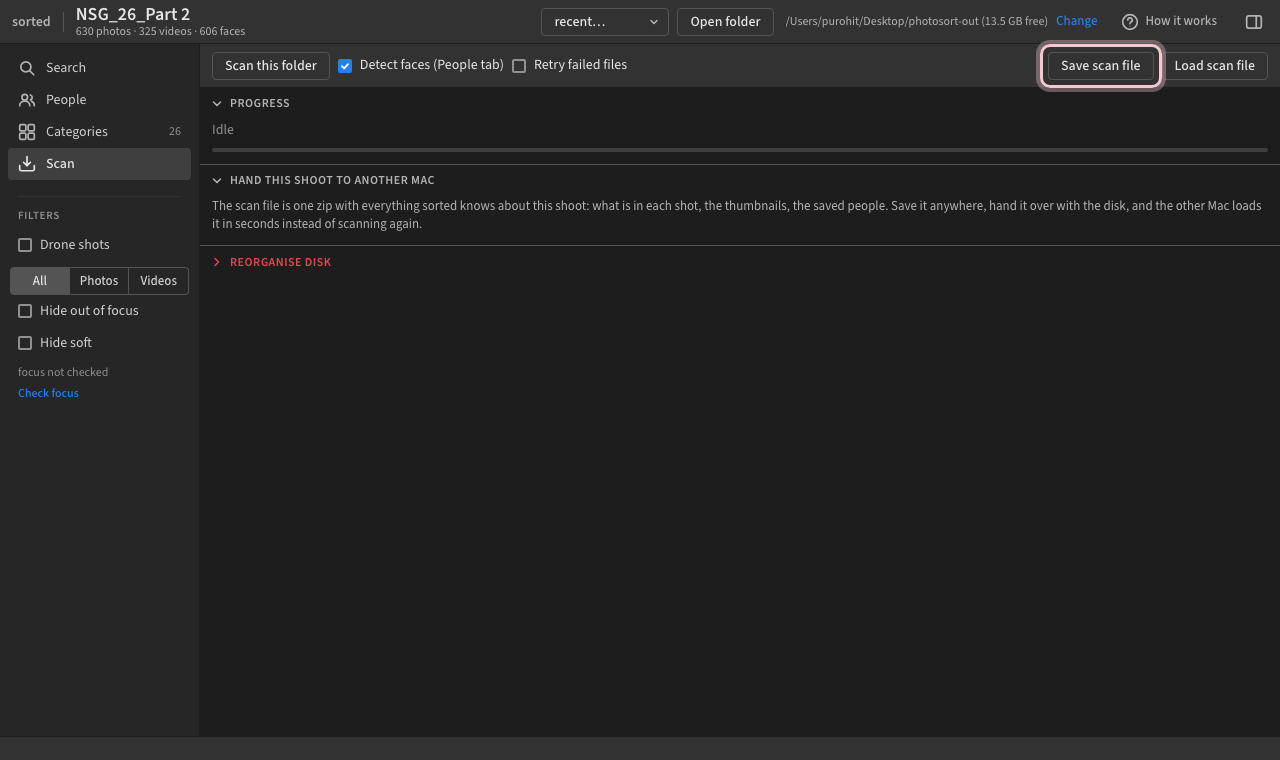
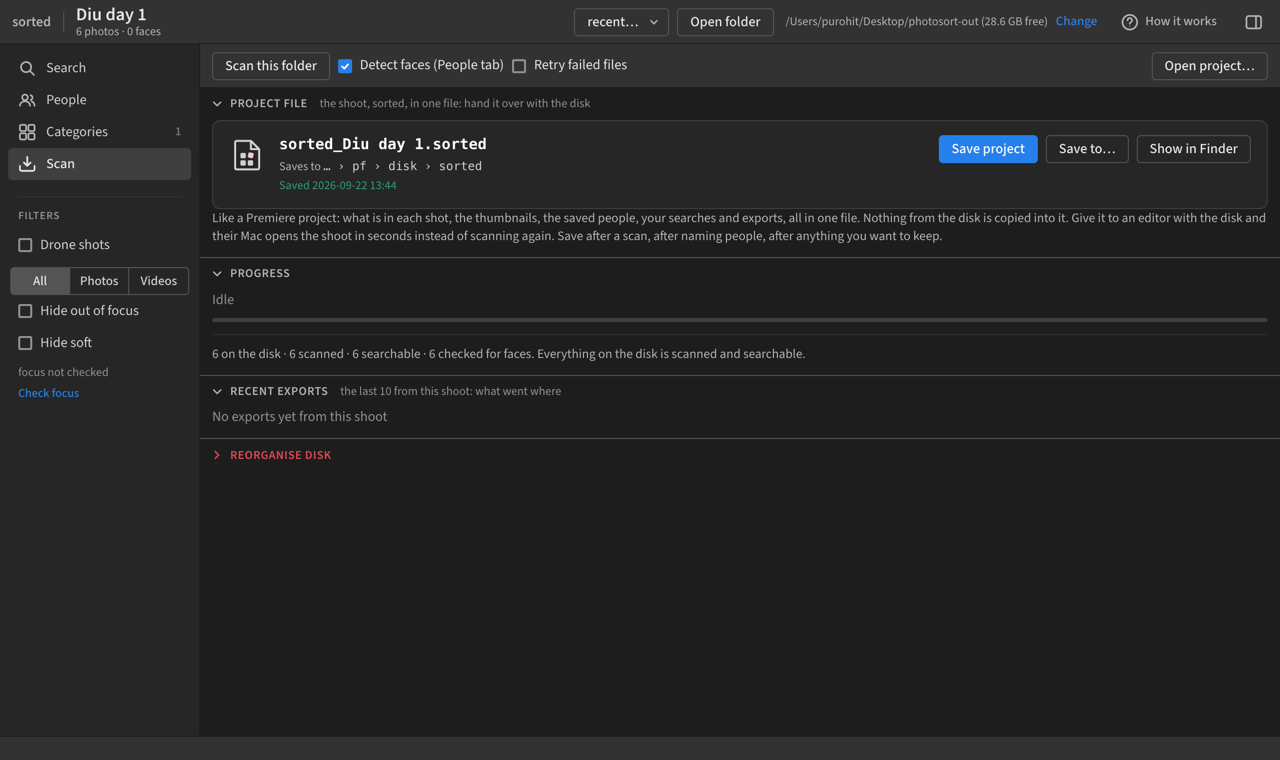
site: one Install sorted button with email and confetti; the project file on the share page

diff --git a/beta.js b/beta.js
@@ -1,14 +1,9 @@
-/* Join the beta. One button: the tap is recorded, confetti, a line, then an email field.
-   Storage is a Supabase table reached through two insert-only functions with the publishable key
+/* Install sorted. Every Install button asks for an email, throws confetti, then goes to the install page.
+   Storage is a Supabase table reached through an insert-only function with the publishable key
    (nothing is readable from the browser). No sign-in, no cookies. */
 (function () {
   var URL = 'https://woasffpwdbwavwcrtllz.supabase.co/rest/v1/rpc/';
   var KEY = 'sb_publishable_aAR90Pzf1gza49CP2t7uKQ_xyDhkTZI';
-  var wrap = document.getElementById('beta-cta');
-  var join = document.getElementById('beta-join');
-  if (!wrap || !join) return;
-  var note = wrap.parentNode.querySelector('.beta-note');
-  var source = (location.hash || '').slice(1, 61) || 'site';
 
   function rpc(fn, args) {
     return fetch(URL + fn, {
@@ -52,54 +47,29 @@
     })(t0);
   }
 
-  function step2() {
-    join.disabled = true; join.classList.add('pressed');
-    confetti(join, 140);
-    rpc('beta_tap', { p_source: source, p_user_agent: ua() }).catch(function () {});
-    var box = document.createElement('form'); box.className = 'beta-mail'; box.noValidate = true;
-    box.innerHTML =
-      '<p class="beta-line">Nice. Where do we send the build?</p>' +
-      '<div class="beta-mail-row"><input name="email" type="email" inputmode="email" autocomplete="email" placeholder="you@studio.in" required maxlength="200" aria-label="Email">' +
-      '<button type="submit" class="cta beta-submit">Notify me</button></div>' +
-      '<p class="beta-msg" aria-live="polite"></p>';
-    wrap.insertAdjacentElement('afterend', box);
-    if (note) note.hidden = true;
-    requestAnimationFrame(function () { box.classList.add('in'); box.email.focus({ preventScroll: true }); });
-    var msg = box.querySelector('.beta-msg'), btn = box.querySelector('.beta-submit');
-    box.addEventListener('submit', function (e) {
-      e.preventDefault();
-      var email = box.email.value.trim().toLowerCase();
-      if (!/^[^@\s]+@[^@\s]+\.[^@\s]{2,}$/.test(email)) { msg.textContent = 'That email does not look right.'; msg.classList.add('bad'); return; }
-      btn.disabled = true; msg.classList.remove('bad'); msg.textContent = 'One second';
-      rpc('beta_join', { p_email: email, p_source: source, p_user_agent: ua() }).then(function () {
-        box.innerHTML = '<p class="beta-line big">You are in. We will notify you shortly with the build.</p><p class="beta-fine">One email, from purohit.krick@gmail.com. Nothing else.</p>';
-        confetti(box.querySelector('.beta-line'), 60);
-      }).catch(function (err) {
-        btn.disabled = false; msg.classList.add('bad'); msg.textContent = err.message === 'failed' ? 'Could not save that. Try again in a moment.' : err.message;
-      });
-    });
-  }
-  join.addEventListener('click', step2, { once: true });
-
-  /* Download for Mac: ask for an email first, then go to the download page. A returning visitor
-     who already gave one goes straight through. */
+  /* Install sorted: every Install button asks for an email first, then confetti, then the install page.
+     A returning visitor who already gave one gets the confetti and goes straight through. */
   var KEY_MAIL = 'sorted.beta.email';
   function knownEmail() { try { return localStorage.getItem(KEY_MAIL) || ''; } catch (e) { return ''; } }
   function remember(email) { try { localStorage.setItem(KEY_MAIL, email); } catch (e) {} }
-  function gate(href) {
+  function go(href, from, delay) {
+    confetti(from, 140);
+    setTimeout(function () { location.href = href; }, reduced() ? 0 : delay);
+  }
+  function gate(href, from) {
     var old = document.getElementById('dl-gate'); if (old) old.remove();
     var m = document.createElement('div'); m.id = 'dl-gate'; m.className = 'dl-gate';
     m.innerHTML =
       '<div class="dl-card" role="dialog" aria-modal="true" aria-labelledby="dl-h">' +
         '<button type="button" class="dl-x" aria-label="Close">&times;</button>' +
-        '<h3 id="dl-h">One thing before the download.</h3>' +
-        '<p>Your email, so we can send you the build updates while the beta moves fast. One email at a time, nothing else.</p>' +
+        '<h3 id="dl-h">One thing before the install.</h3>' +
+        '<p>Your email, so we can tell you when a build changes something. One email at a time, nothing else.</p>' +
         '<form class="dl-form" novalidate><input name="email" type="email" inputmode="email" autocomplete="email" placeholder="you@studio.in" required maxlength="200" aria-label="Email">' +
-        '<button type="submit" class="cta">Go to the download</button></form>' +
+        '<button type="submit" class="cta">Install sorted</button></form>' +
         '<p class="beta-msg" aria-live="polite"></p>' +
       '</div>';
     document.body.appendChild(m);
-    var form = m.querySelector('form'), msg = m.querySelector('.beta-msg'), btn = form.querySelector('button');
+    var card = m.querySelector('.dl-card'), form = m.querySelector('form'), msg = m.querySelector('.beta-msg'), btn = form.querySelector('button');
     function close() { m.remove(); document.removeEventListener('keydown', esc); }
     function esc(e) { if (e.key === 'Escape') close(); }
     m.querySelector('.dl-x').addEventListener('click', close);
@@ -111,8 +81,10 @@
       var email = form.email.value.trim().toLowerCase();
       if (!/^[^@\s]+@[^@\s]+\.[^@\s]{2,}$/.test(email)) { msg.textContent = 'That email does not look right.'; msg.classList.add('bad'); return; }
       btn.disabled = true; msg.classList.remove('bad'); msg.textContent = 'One second';
-      rpc('beta_join', { p_email: email, p_source: 'download', p_user_agent: ua() }).then(function () {
-        remember(email); location.href = href;
+      rpc('beta_join', { p_email: email, p_source: 'install', p_user_agent: ua() }).then(function () {
+        remember(email);
+        card.innerHTML = '<p class="beta-line big">You are in.</p><p class="beta-fine">Taking you to the install page.</p>';
+        go(href, card, 1500);
       }).catch(function (err) {
         btn.disabled = false; msg.classList.add('bad'); msg.textContent = err.message === 'failed' ? 'Could not save that. Try again in a moment.' : err.message;
       });
@@ -120,8 +92,9 @@
   }
   Array.prototype.forEach.call(document.querySelectorAll('a[href$="download/"]'), function (a) {
     a.addEventListener('click', function (e) {
-      if (knownEmail()) return;
-      e.preventDefault(); gate(a.getAttribute('href'));
+      e.preventDefault();
+      if (knownEmail()) { go(a.getAttribute('href'), a, 900); return; }
+      gate(a.getAttribute('href'), a);
     });
   });
 })();

diff --git a/share/index.html b/share/index.html
@@ -3,8 +3,8 @@
 <head>
 <meta charset="utf-8">
 <meta name="viewport" content="width=device-width, initial-scale=1, viewport-fit=cover">
-<title>Share a scan with an editor</title>
-<meta name="description" content="How to hand a sorted scan to another editor: save the scan file, give it with the disk, load it in seconds on the other Mac.">
+<title>Share a project file with an editor</title>
+<meta name="description" content="How to hand a sorted project file to another editor: save it, give it with the disk, open it in seconds on the other Mac.">
 <link rel="icon" href="../brand/favicon.svg" type="image/svg+xml">
 <link rel="stylesheet" href="https://fonts.googleapis.com/css2?family=Archivo:wdth,wght@112.5,700&display=swap">
 <link rel="stylesheet" href="../style.css">
@@ -30,8 +30,8 @@
 <main class="sh">
   <a class="top" href="../"><img class="brand-mark" src="../brand/mark.svg" alt="" width="28" height="28"><span class="wordmark"></span><span class="badge">public beta, testing right now</span></a>
 
-  <h1>Share a scan with an editor.</h1>
-  <p class="lede">A scan file holds everything sorted learned about a shoot: thumbnails, video frames, search, faces, people names, your Same or Different answers. It does not hold the photos and clips. So the editor gets two things: the scan file and the disk.</p>
+  <h1>Share a project file with an editor.</h1>
+  <p class="lede">A project file holds everything sorted learned about a shoot: thumbnails, video frames, search, faces, people names, your Same or Different answers. It does not hold the photos and clips. So the editor gets two things: the project file and the disk.</p>
 
   <h2>On your Mac</h2>
   <div class="step"><span class="n">1</span><div>
@@ -39,14 +39,14 @@
     <p>It is under <kbd>Recent</kbd> on the welcome screen.</p>
   </div></div>
   <div class="step"><span class="n">2</span><div>
-    <h3>Left sidebar <kbd>Scan</kbd>, then <kbd>Save scan file</kbd></h3>
-    <p>A Mac dialog asks where. Best place: a <kbd>sorted</kbd> folder on the shoot disk itself, so the file travels with the footage. It writes <kbd>&lt;shoot name&gt;.photosort-index.zip</kbd>, usually a few hundred MB, about 1 GB for a shoot with many clips. <kbd>Show in Finder</kbd> points at it.</p>
-    <div class="shot"><img src="save-scan-file.png" alt="The Scan tab in sorted with the Save scan file button circled" width="1280" height="760" loading="lazy"></div>
-    <p class="quiet" style="font-size:14px;color:var(--ink-3)">Older build showing <kbd>Export index</kbd> instead? Same thing; it saves into Desktop, photosort-out. Re-run the install line to get the current build.</p>
+    <h3>Left sidebar <kbd>Scan</kbd>, then <kbd>Save project</kbd></h3>
+    <p>No dialog, no wait: command S works too. It writes <kbd>sorted_&lt;shoot name&gt;.sorted</kbd> straight into a <kbd>sorted</kbd> folder beside the shoot on the disk, so it travels with the footage. Usually a few hundred MB, about 1 GB for a shoot with many clips. Want it somewhere else: <kbd>Save to…</kbd> opens a folder picker and remembers the place. <kbd>Show in Finder</kbd> points at the file.</p>
+    <div class="shot"><img src="save-scan-file.png" alt="The Scan tab in sorted: the Project file card with Save project, Save to and Show in Finder" width="1280" height="760" loading="lazy"></div>
+    <p class="quiet" style="font-size:14px;color:var(--ink-3)">Older build showing <kbd>Export index</kbd> instead? Re-run the install line to get the current build.</p>
   </div></div>
   <div class="step"><span class="n">3</span><div>
     <h3>Hand over the disk and the file</h3>
-    <p>Or a copy of the shoot folder plus the zip on Drive. The zip alone lets someone browse and search; cutting needs the footage.</p>
+    <p>Or a copy of the shoot folder plus the file on Drive. The file alone lets someone browse and search; cutting needs the footage.</p>
   </div></div>
 
   <h2>On the editor's Mac</h2>
@@ -55,15 +55,15 @@
     <p>One line in Terminal, on the <a href="../download/">download page</a>. A few minutes.</p>
   </div></div>
   <div class="step b"><span class="n">2</span><div>
-    <h3>Plug in the disk, open sorted, <kbd>Load a scan file</kbd></h3>
-    <p>Pick the zip. When it asks for the photo folder, point at the shoot on the disk. Seconds, no rescan. Names, people and categories arrive with it.</p>
+    <h3>Plug in the disk, then double-click the project file</h3>
+    <p>Double-click <kbd>sorted_&lt;shoot name&gt;.sorted</kbd> in the Finder and it opens straight into sorted (the Desktop icon the installer made handles this; re-run the install line if you installed before today to get it). Or open sorted first and click <kbd>Open a project file</kbd> on the welcome screen, or <kbd>Open project…</kbd> in the sidebar. When it asks for the photo folder, point at the shoot on the disk. Seconds, no rescan. Names, people and categories arrive with it. Given an older <kbd>.photosort-index.zip</kbd> instead? It opens the same way.</p>
   </div></div>
   <div class="step b"><span class="n">3</span><div>
     <h3>Work</h3>
     <p>Search, people, categories, export selects, Reorganise with Undo, straight to Drive. All on the originals.</p>
   </div></div>
 
-  <div class="note">One owner per scan file for now. If the editor names more people or answers more Same or Different prompts, that stays on their Mac until they save their own scan file; merging two scans of one shoot is on the roadmap.</div>
+  <div class="note">One owner per project file for now. If the editor names more people or answers more Same or Different prompts, that stays on their Mac until they save their own project file; merging two project files of one shoot is on the roadmap.</div>
 </main>
 </body>
 </html>

diff --git a/index.html b/index.html
@@ -41,7 +41,7 @@
   "@type": "Offer",
   "price": "0",
   "priceCurrency": "USD",
-  "description": "public beta"
+  "description": "public beta, free to install"
  },
  "author": {
   "@type": "Organization",
@@ -159,7 +159,7 @@
     <a class="ul" href="#room">Privacy</a>
     <a class="ul" href="#uses">Use cases</a>
   </nav>
-  <a class="cta cta-small magnetic" href="#beta">Join the beta</a>
+  <a class="cta cta-small magnetic" href="download/">Install sorted</a>
 </header>
 
 <main id="main">
@@ -172,8 +172,8 @@
     <p class="lede" data-reveal="lines">A Mac app that indexes photos and 4K clips where they sit. Find any frame in plain words, every shot of a person from one photo, and send the client their frames tonight. Nothing leaves the Mac.</p>
     <p class="hero-for" data-reveal="fade">For editors, agencies, wedding and documentary crews, photographers, designers.</p>
     <div class="cta-row" data-reveal="fade">
-      <a class="cta magnetic" href="#beta">Join the beta</a>
-      <a class="cta cta-ghost magnetic" href="download/">Download for Mac</a>
+      <a class="cta magnetic" href="download/">Install sorted</a>
+      <span class="cta-aside">Free in the beta. Apple silicon Mac, one line in the Terminal.</span>
     </div>
   </div>
 
@@ -388,7 +388,7 @@
           <li class="step"><h3>Index</h3><p>Every photo and clip gets a fingerprint on this Mac. 3,677 photos took about 11 minutes on a base M1 with 8 GB.</p></li>
           <li class="step"><h3>Search</h3><p>Plain words. The matches light up, the less sure ones stay visible under a line.</p></li>
           <li class="step"><h3>People</h3><p>Every detected face lands in a group. One photo of a person finds the rest of them.</p></li>
-          <li class="step"><h3>Export</h3><p>One folder per category, links or copies, free space checked first. Or one index bundle that opens the shoot already sorted on another Mac.</p></li>
+          <li class="step"><h3>Export</h3><p>One folder per category, links or copies, free space checked first. Or one project file that opens the shoot already sorted on another Mac.</p></li>
         </ol>
         <p class="step-live" id="step-live" hidden></p>
         <div class="rail" aria-hidden="true"><i id="rail-fill"></i></div>
@@ -616,7 +616,7 @@
   <div class="uses-grid">
     <ol class="uc-list" id="uc-list">
       <li class="uc"><h3>Editors and post houses</h3><p>Search forty hours of rushes in words: <button type="button" class="chip" data-q="interview">interview</button>, <button type="button" class="chip" data-q="market street">market street</button>. Pull the selects, get the scene breakdown per clip, reorganise the drive with Undo.</p></li>
-      <li class="uc"><h3>Designers</h3><p>Open the index bundle the studio sends and the whole shoot is already sorted and searchable on your Mac. Find the frame for the layout by describing it: <button type="button" class="chip" data-q="sunset sea">sunset sea</button>, <button type="button" class="chip" data-q="bride portrait">bride portrait</button>. Export just the picks into the deck folder.</p></li>
+      <li class="uc"><h3>Designers</h3><p>Open the project file the studio sends and the whole shoot is already sorted and searchable on your Mac. Find the frame for the layout by describing it: <button type="button" class="chip" data-q="sunset sea">sunset sea</button>, <button type="button" class="chip" data-q="bride portrait">bride portrait</button>. Export just the picks into the deck folder.</p></li>
       <li class="uc"><h3>Wedding photographers</h3><p>Every frame of the bride's parents from one photo. Type <button type="button" class="chip" data-q="varmala">varmala</button>, <button type="button" class="chip" data-q="haldi">haldi</button> or <button type="button" class="chip" data-q="couple on the stage">couple on the stage</button>. Cull the soft ones with the sharp slider. Every photo of the couple's parents, in their Drive before the reception ends.</p></li>
       <li class="uc"><h3>Cinematographers and DOPs</h3><p>A scene breakdown per clip. Tick <button type="button" class="chip" data-q="aerial">drone shots</button>. Type <button type="button" class="chip" data-q="golden hour beach">golden hour beach</button>. Pull selects by look.</p></li>
       <li class="uc"><h3>Documentary crews</h3><p>Forty hours of interviews and B-roll, interviews flagged automatically. Type <button type="button" class="chip" data-q="market">market</button>, <button type="button" class="chip" data-q="fishing boats">fishing boats</button> or <button type="button" class="chip" data-q="elderly man">elderly man</button>. Find the one sound bite location again.</p></li>
@@ -666,12 +666,11 @@
 
 <section class="beta" id="beta"><div class="block lav wrap">
   <p class="badge" data-reveal="fade">public beta, testing right now</p>
-  <h2 data-reveal="lines">Runs on a Mac. Be first to run it.</h2>
+  <h2 data-reveal="lines">Runs on a Mac. Install it tonight.</h2>
   <div class="beta-cta" id="beta-cta" data-reveal="fade">
-    <button type="button" class="cta magnetic beta-join" id="beta-join">Join the beta</button>
-    <a class="cta cta-ghost magnetic" href="download/">Download for Mac</a>
+    <a class="cta magnetic" href="download/">Install sorted</a>
   </div>
-  <p class="beta-note" data-reveal="fade">One tap, one email. We notify you the moment the build is ready.</p>
+  <p class="beta-note" data-reveal="fade">One email, then the install page. We write when a build changes something, nothing else.</p>
 </div></section>
 
 </main>

diff --git a/beta.css b/beta.css
@@ -12,7 +12,7 @@
 .beta-msg { min-height: 1.4em; margin: 8px 0 0; font-size: 14px; color: var(--ink-2); }
 .beta-msg.bad { color: var(--red); }
 .beta-fine { margin: 6px 0 0; font-size: 14px; color: var(--ink-3); }
-.confetti { position: fixed; inset: 0; pointer-events: none; z-index: 60; }
+.confetti { position: fixed; inset: 0; pointer-events: none; z-index: 80; }
 @media (max-width: 560px) { .beta-mail-row { flex-direction: column; } .beta-mail-row input { text-align: center; } }
 
 /* download gate */
@@ -29,3 +29,6 @@
 .dl-form input:focus { outline: none; border-color: var(--ring); box-shadow: 0 0 0 3px rgba(75, 156, 245, 0.25); }
 .dl-form .cta { white-space: nowrap; }
 @media (max-width: 560px) { .dl-form { flex-direction: column; } }
+.cta-aside { align-self: center; font-size: 14px; color: var(--ink-3); max-width: 28ch; line-height: 1.35; text-align: left; }
+.dl-card .beta-line.big { margin-bottom: 4px; }
+.dl-card .beta-fine { margin: 0; }

diff --git a/download/index.html b/download/index.html
@@ -71,7 +71,7 @@
 
   <div class="step"><span class="n">2</span><div>
     <h3>Open a shoot</h3>
-    <p><kbd>Open folder</kbd>, pick the disk or folder, then <kbd>Index</kbd>. Photos take about ten minutes per 4,000 on an M1; clips longer. If you were given a <kbd>.photosort-index.zip</kbd>, use Index, <kbd>Import an index</kbd> instead and skip the wait.</p>
+    <p><kbd>Scan a disk or folder</kbd>, pick the disk or folder, then it indexes. Photos take about ten minutes per 4,000 on an M1; clips longer. If you were given a project file (<kbd>sorted_&lt;shoot&gt;.sorted</kbd>, or an older <kbd>.photosort-index.zip</kbd>), double-click it or use <kbd>Open a project file</kbd> instead and skip the wait.</p>
   </div></div>
 
   <div class="step"><span class="n">3</span><div>
